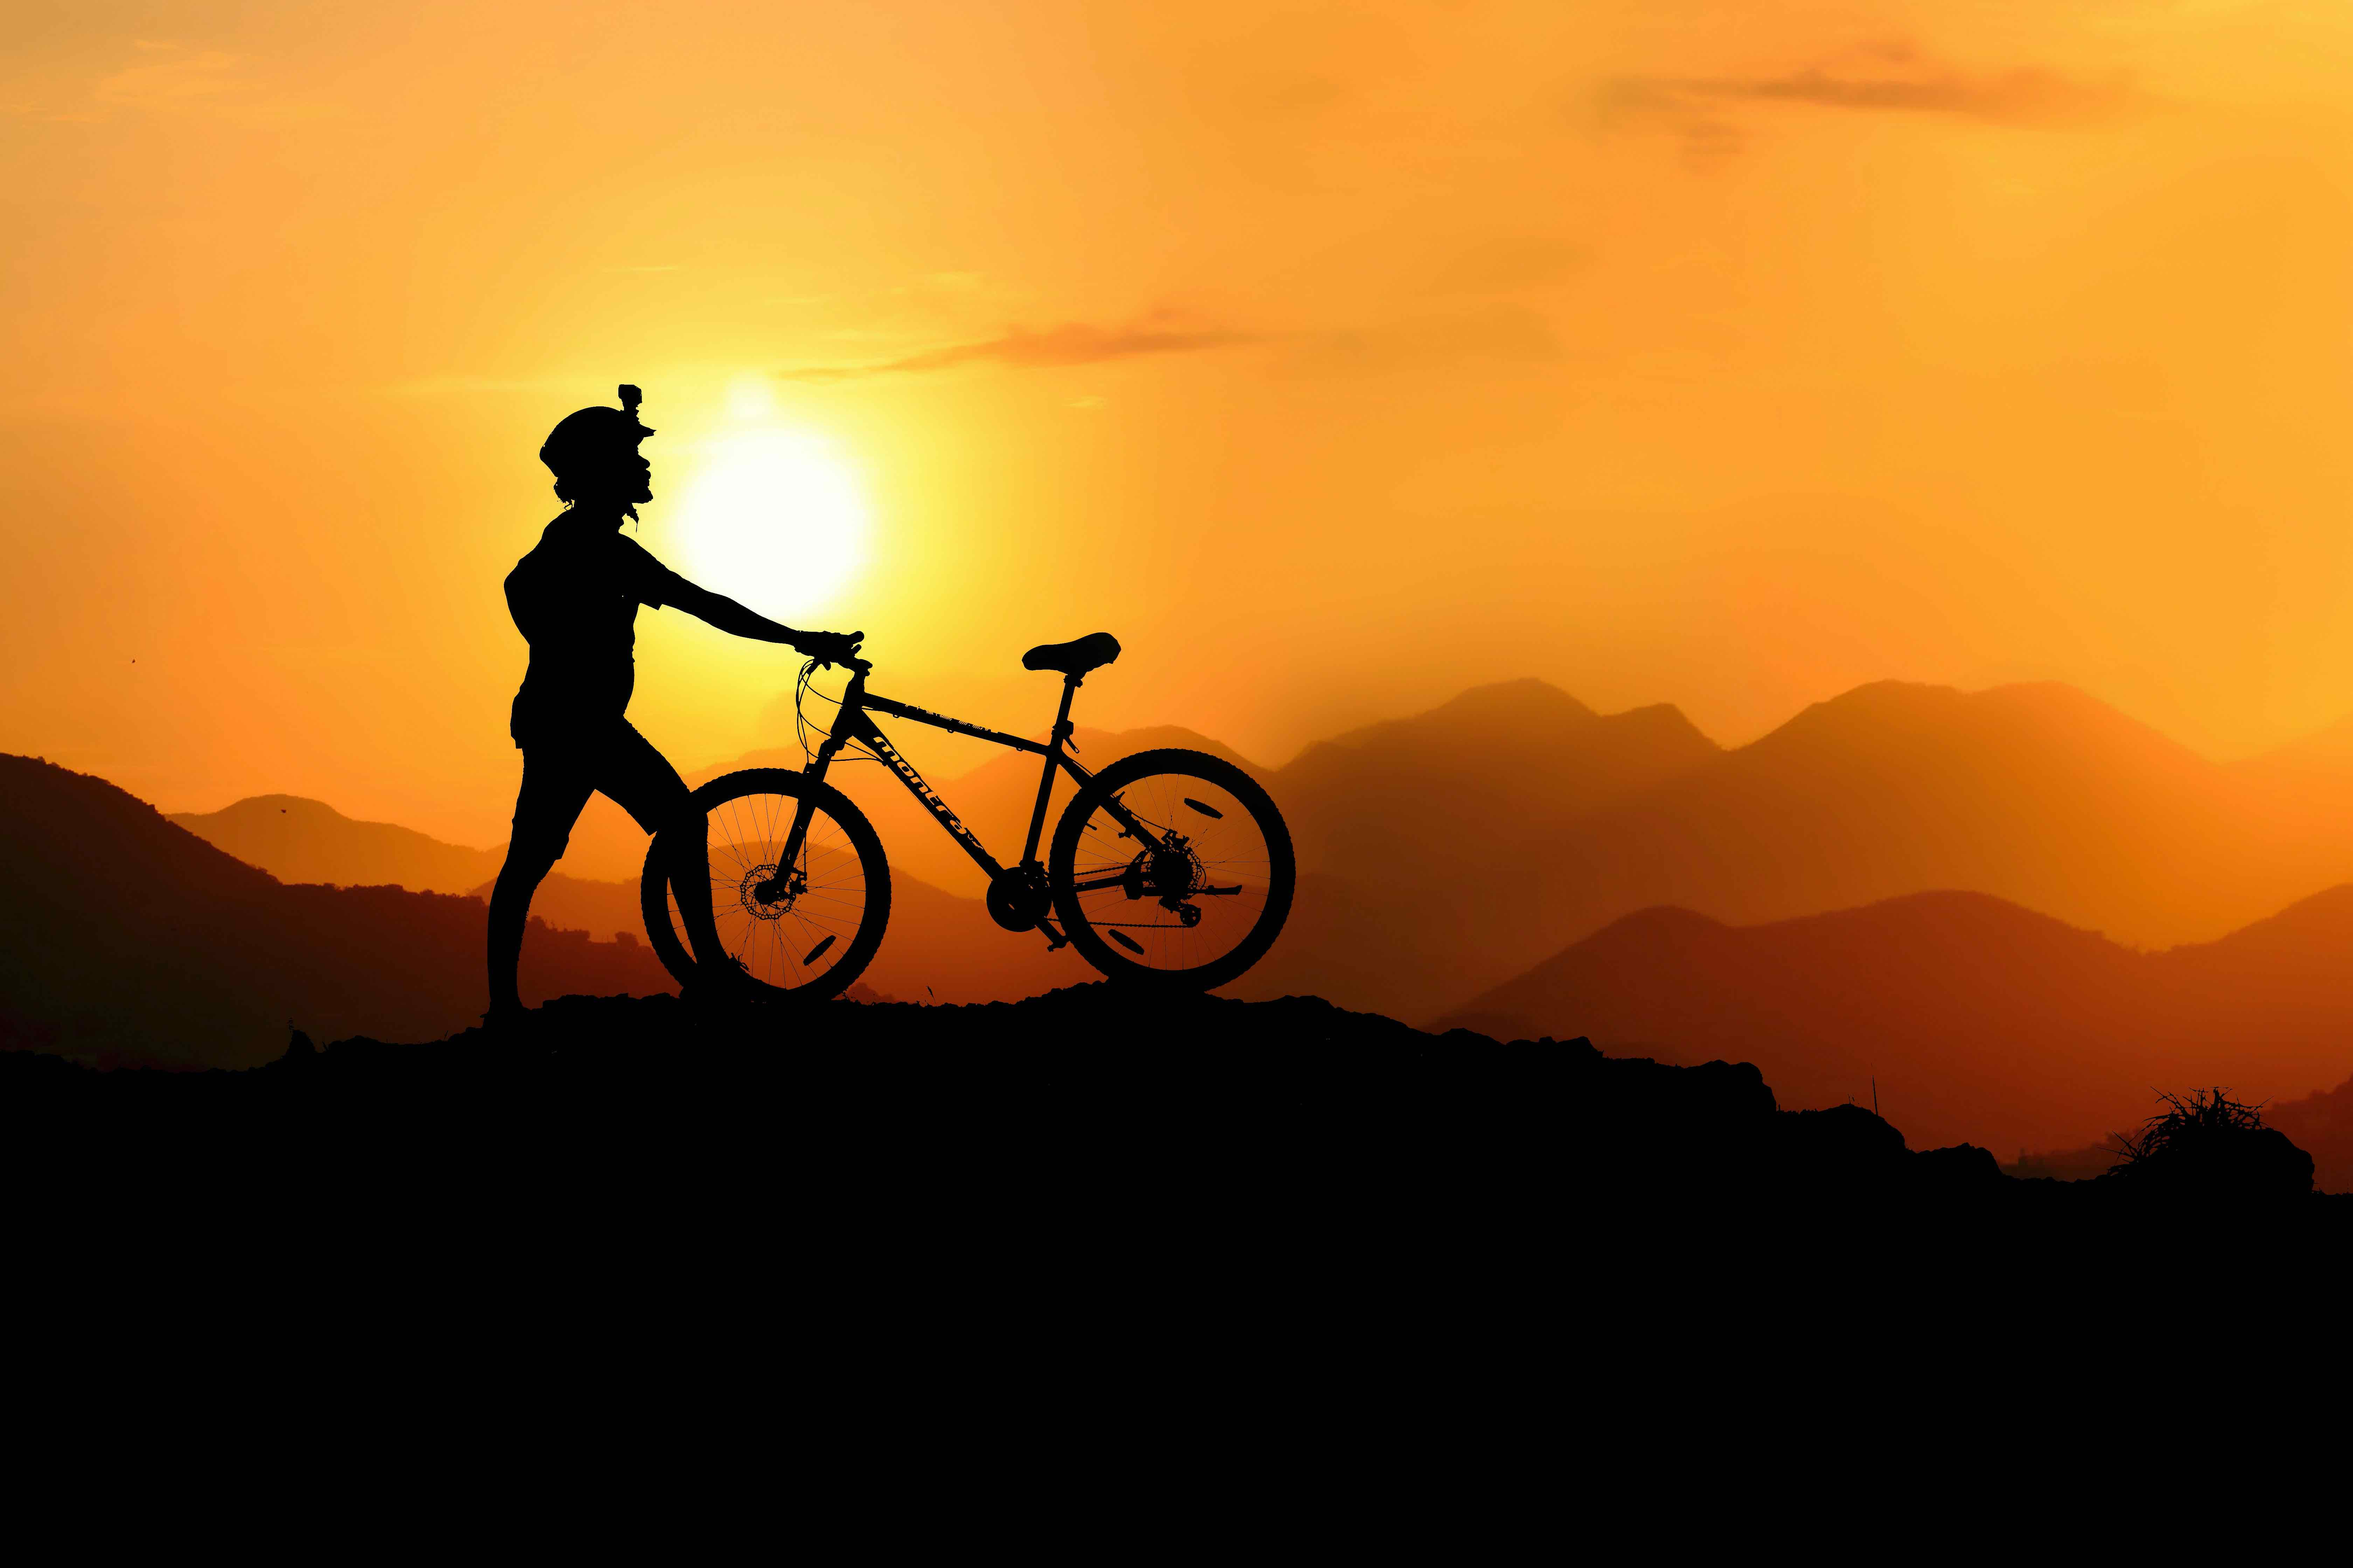
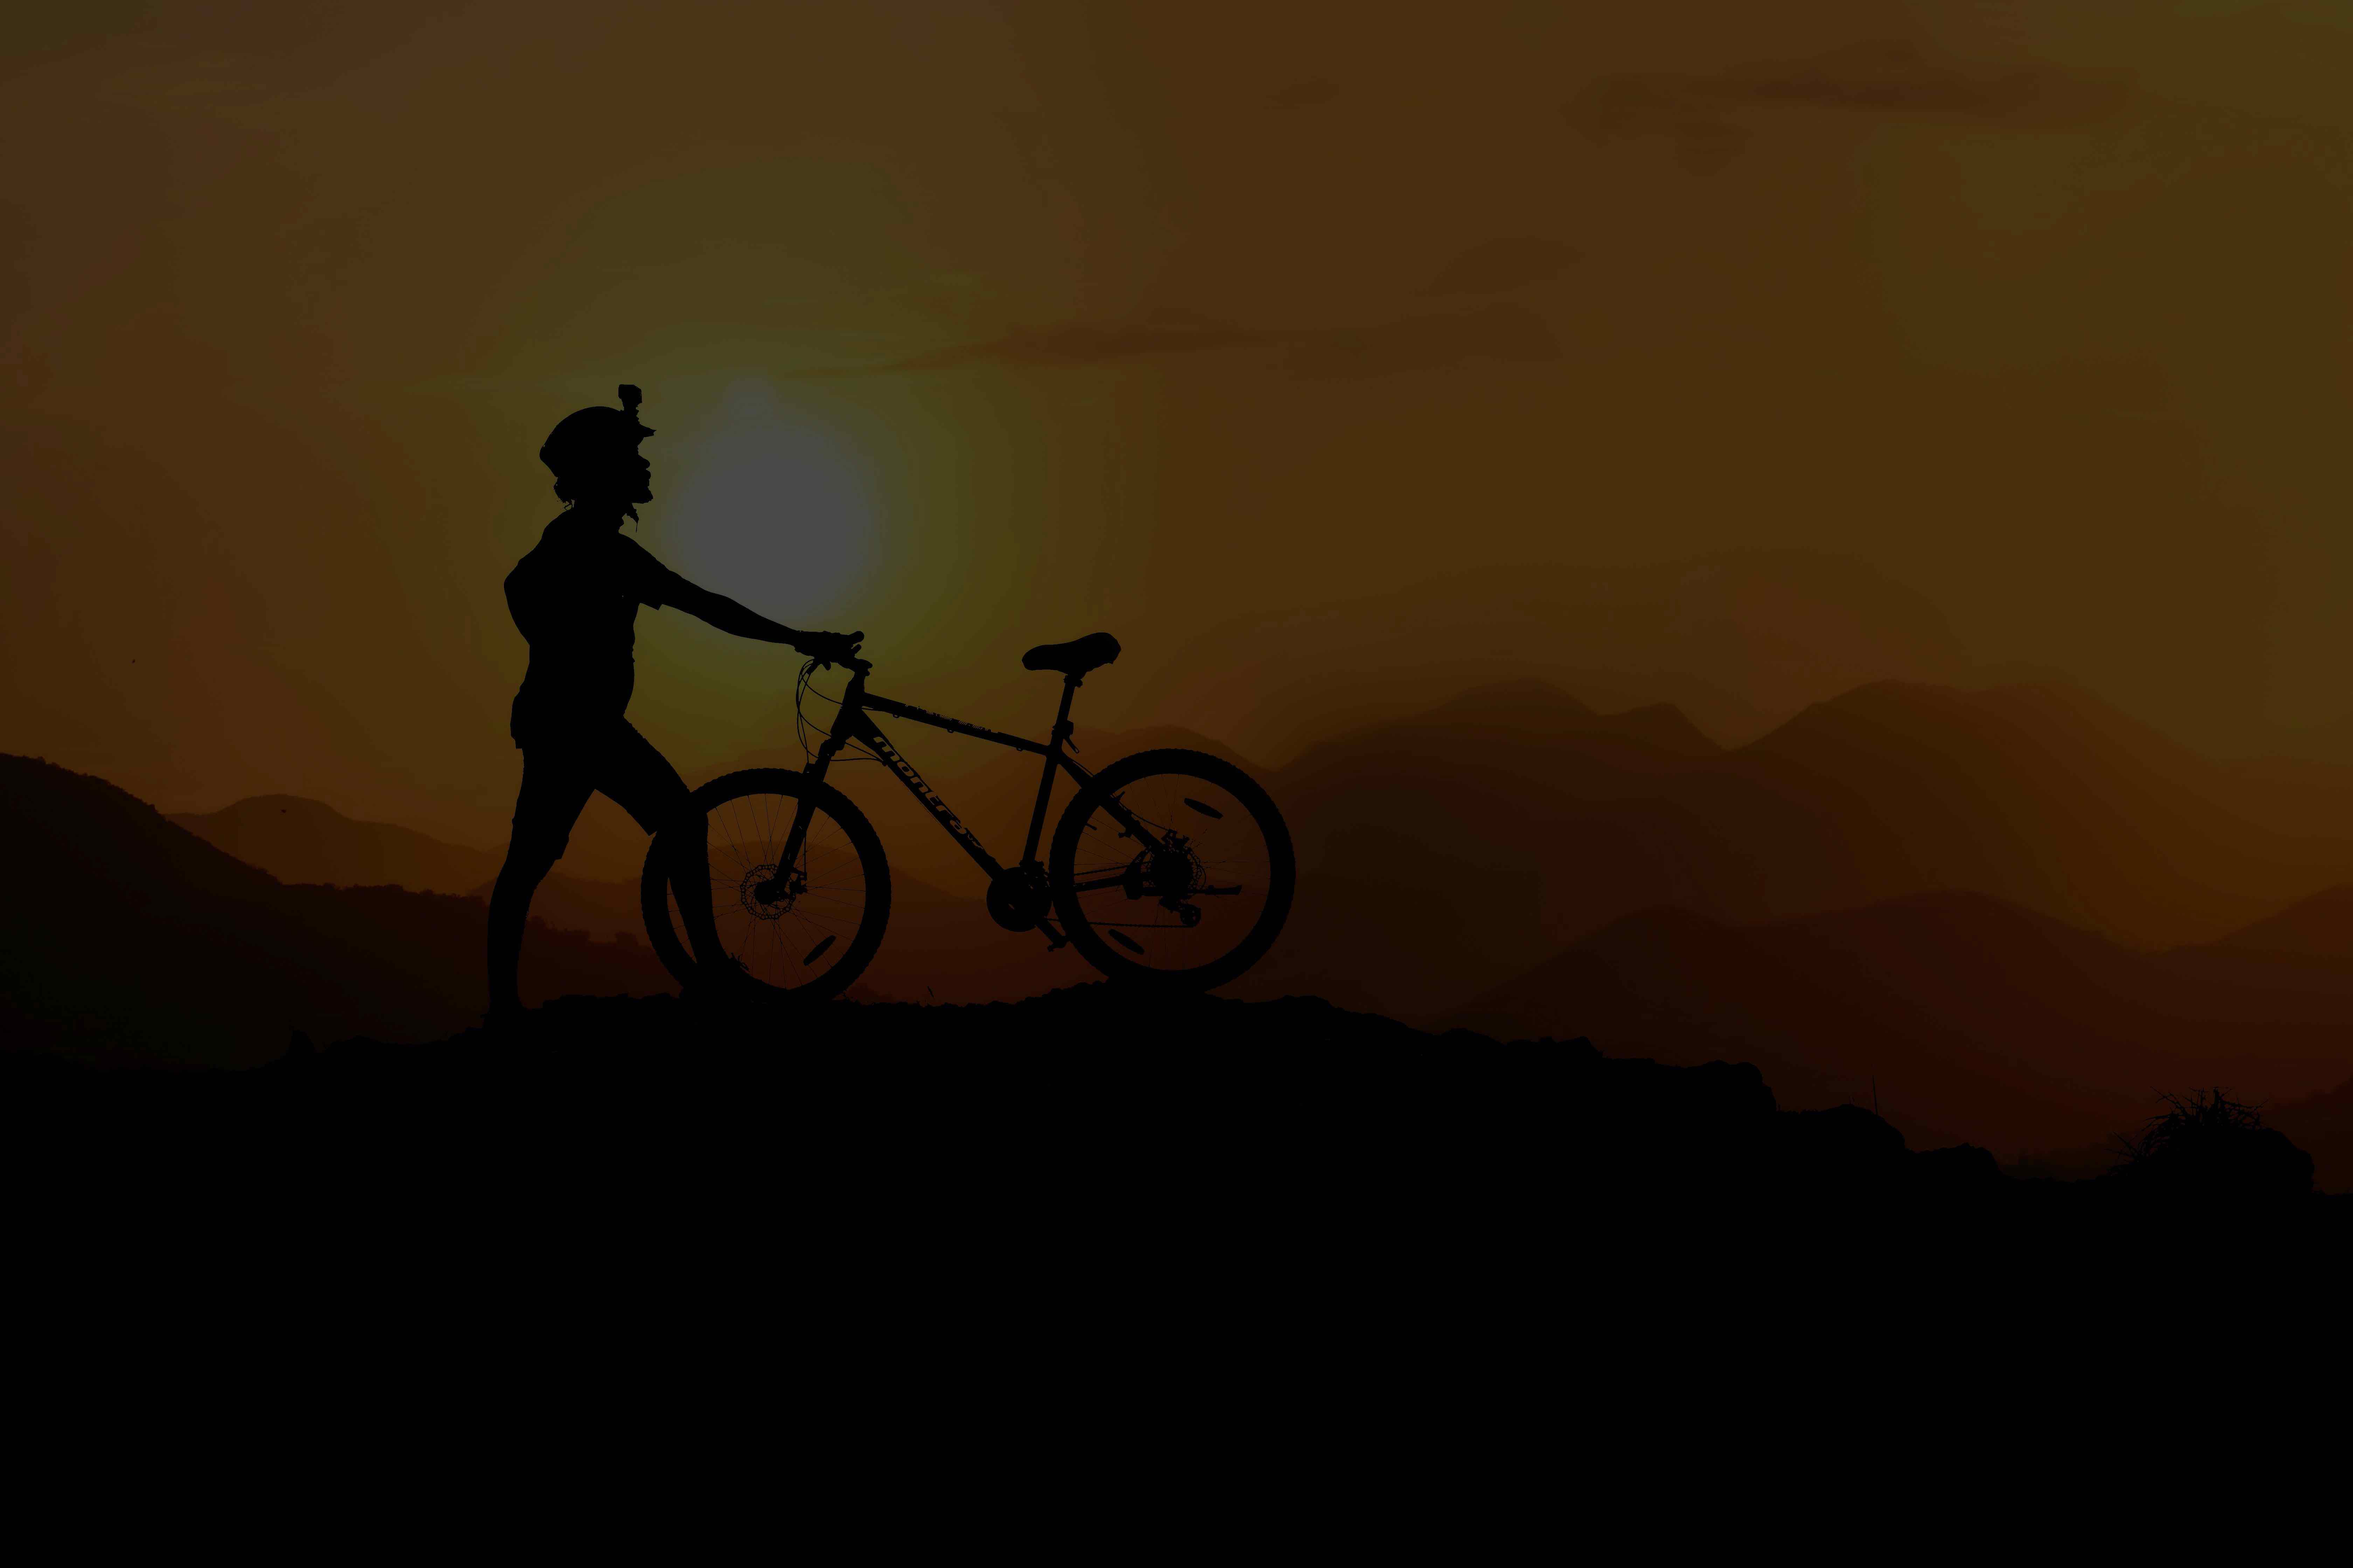
readme

diff --git a/js/index.js b/js/index.js
@@ -1,23 +1,28 @@
-// suble motion for heading text content
-gsap.from(".subtle", {opacity: 0, duration: 5, y: -150, stagger: 0.5})
-gsap.from(".vertical", {opacity: 0, duration: 5, y: 300, x: -150})
-
-
-let preorder = document.querySelector(".animate-btn")
-
-
-
-preorder.addEventListener('click', event => {
-  gsap.to(".offscreen",{
-    duration: 5,
-    y: 10,
-    opacity: 1,
-    scale: 0.8
-  }); 
-
+// subtle motion for heading text content (Starts when page loads)
+window.addEventListener("load", () => {
+  //heading and button move down as page loads
+  gsap.from(".subtle", { opacity: 0, duration: 5, y: -150, stagger: 0.5 });
+  gsap.from(".vertical", { opacity: 0, duration: 5, y: 300, x: -150 });
+  //explore text moves up as page loads
 });
 
-// gsap.to(".react",{duration: 2, x: 300, backgroundColor: "black", x: -300} )
-gsap.to(".react", { delay: 2, repeat: 2, repeatDelay: 3, duration: 3, ease: "elastic.out(15, 1)", x: 100, });
+//PreOrder Button Gsap Event (Thank you message)
+let preorder = document.querySelector(".animate-btn");
+preorder.addEventListener("click", () => {
+  gsap.to(".offscreen", {
+    duration: 2,
+    opacity: 1,
+    scale: 0.8,
+  });
+});
+//PreOrder button Gsap
 
-gsap.from(".react", 8, {rotation:1080*10, scale:5, ease:Linear.easeNone})
+//React symbol movement. (to explore the way the different items act in gsap)
+let hover = document.querySelector(".spin");
+hover.addEventListener("mouseover", () => {
+  gsap.from(".react", 2, {
+    rotation: 1080 * 10,
+    scale: 15,
+    ease: Linear.easeNone,
+  });
+});

diff --git a/less/jumbotron.less b/less/jumbotron.less
@@ -1,5 +1,5 @@
 .jumbotron {
-  background-image: url("../images/heroImage.jpg");
+  background-image: url("../images/secondary-hero.jpg");
   background-repeat: no-repeat;
   background-size: cover;
   height: 90vh;
@@ -41,31 +41,33 @@
       margin-left: 10rem;
       border-right: 1px solid orange;
       padding-top: 15rem;
-      text-transform: uppercase;  
+      text-transform: uppercase;
       transform: rotate(180deg);
     }
   }
 }
-.offscreen{
+.offscreen {
+  display: inline;
   opacity: 0;
   font-size: 2rem;
-  color: gray;
+  color: rgb(255, 255, 255);
+  background-color: rgb(0, 0, 0);
 }
 // ******************** secondary-jumbotron
-.secondary-jumbo{
-  background-image: url('../images/secondary-hero.jpg');
+.secondary-jumbo {
+  background-image: url("../images/secondary-hero.jpg");
   background-size: cover;
 }
 // ******************** Work-Jumbotron
 
-.work-jumbo{
+.work-jumbo {
   margin: auto;
-  background-image: url('../images/Work.png');
+  background-image: url("../images/Work.png");
   background-size: cover;
   background-repeat: no-repeat;
   // min-width: 30rem;
 }
-.carousel{
+.carousel {
   margin: auto;
   max-width: 80%;
   margin: 5rem auto 5rem auto;

diff --git a/index.html b/index.html
@@ -16,7 +16,7 @@
     <div class="container-fluid">
 
     <nav class="header navbar navbar-expand-lg navbar-light ">
-      <a class="navbar-brand" href="/index.html"> <img class="react" src="./images/logo.svg" alt="test"/>Bike Shop</a>
+      <a class="navbar-brand " href="#"> <img class="react spin" src="./images/logo.svg" alt="test"/>Bike Shop</a>
       <button
         class="navbar-toggler"
         type="button"
@@ -36,7 +36,7 @@
             >
           </li>
           <li class="nav-item">
-            <a class="nav-link" href="/secondary.html">Secondary Page</a>
+            <a class="nav-link" href="secondary.html">Secondary Page</a>
           </li>
           <li class="nav-item">
             <a class="nav-link" href="contact.html">Contact Page</a>
@@ -69,8 +69,9 @@
         <h1>Mountain</h1>
         <h1>Roads</h1>
         <button type="button" class=" animate-btn btn btn-warning">PREORDER NOW</button>
+    <div>    <p class="offscreen">   Thank You For Your Order! </p> </div>
+
       </div>
-    <div class="offscreen"><h1>Thank You For Your Order!</div>
       <div class="vertical"><h3>Explore</h3></div>
     </div>
     <div class="container-fluid">

diff --git a/css/index.css b/css/index.css
@@ -77,7 +77,7 @@ footer {
   background-color: #e3e2e0;
 }
 .jumbotron {
-  background-image: url("../images/heroImage.jpg");
+  background-image: url("../images/secondary-hero.jpg");
   background-repeat: no-repeat;
   background-size: cover;
   height: 90vh;
@@ -123,17 +123,19 @@ footer {
   transform: rotate(180deg);
 }
 .offscreen {
+  display: inline;
   opacity: 0;
   font-size: 2rem;
-  color: gray;
+  color: #ffffff;
+  background-color: #000000;
 }
 .secondary-jumbo {
-  background-image: url('../images/secondary-hero.jpg');
+  background-image: url("../images/secondary-hero.jpg");
   background-size: cover;
 }
 .work-jumbo {
   margin: auto;
-  background-image: url('../images/Work.png');
+  background-image: url("../images/Work.png");
   background-size: cover;
   background-repeat: no-repeat;
 }
@@ -164,7 +166,7 @@ footer {
   font-size: 2rem;
   padding-right: 0;
   margin-right: 0;
-  background-color: rgba(69, 69, 69, 0.667);
+  background-color: rgba(69, 69, 69, 0.822);
 }
 .rightside button {
   justify-self: center;

diff --git a/less/sidebyside.less b/less/sidebyside.less
@@ -20,7 +20,7 @@
   font-size: 2rem;
   padding-right: 0;
   margin-right: 0;
-  background-color: rgba(69, 69, 69, 0.667);
+  background-color: rgba(69, 69, 69, 0.822);
 }
 .rightside button {
   justify-self: center;

diff --git a/README.md b/README.md
@@ -1,67 +1,48 @@
-# BootStrap CSS
 
-You are to demonstrate that you know how to use basic HTML and CSS by building a responsive single page marketing webpage for one of these three companies:
+# Introduction to GSAP
 
-_Road Warriors_ - Bike shop (Chose for this assignment) 
-# Click Here [Link to My Project](https://bills2780bikes.netlify.com/)
-# The URL you used for layout is: [Rivian](https://rivian.com)
+All animations can be found in [index.js](https://github.com/dbills777/Bills_GSAP/blob/master/js/index.jsindex.js)<br><br>
 
-
-
-_Cozy Corner_ - Book store 
+### First Animation (onload)
 
 
 
-_Calm Mind_ - Spa 
+```
+window.addEventListener("load", () => {
+  gsap.from(".subtle", { opacity: 0, duration: 5, y: -150, stagger: 0.5 });
+  gsap.from(".vertical", { opacity: 0, duration: 5, y: 300, x: -150 });
+});
+```
+<sup>1: Heading and Button move down as page loads</sup> <br>
+<sup>2: Explore text moves up as page loads</sup>
 
 
-You will use one of these companies as a guide for your content.  For design, you will need to find a website that you admire as a guide for layout.  You will then combine the company content and the layout of the website you admire to create a single page marketing site.
+### Second Animation (click)
+
+```
+preorder.addEventListener("click", () => {
+  gsap.to(".offscreen", {
+    duration: 2,
+    opacity: 1,
+    scale: 0.8,
+  });
+});
+})
+```
+<sup>Displays a thank you message that appears onclick</sup>
+<br><br>
+
+### Third Animation (mouseover)
+
+```
+hover.addEventListener("mouseover", () => {
+  gsap.from(".react", 2, {
+    rotation: 1080 * 10,
+    scale: 15,
+    ease: Linear.easeNone,
+  });
+});
+```
+<sup>Logo quickly scales large then spins as it returns to size</sup>
 
 
-## BootStrap CSS Requirements
-
-These project requirements directly impact the grading rubric, so read them carefully:
-
-- [x] Proper Use of Bootstrap's CSS Grid System
-
-- [x] CSS Component I (container, container-fluid, jubotron)
-
-- [x] CSS Component II (container, container-fluid, jumbotron)
-
-- [x] JS Component I (Navigation with dropdown and resizing)
-
-- [x] JS Component II (carousel)
-
-- [x] Layout matches the website picked
-
-- [x] Home Page with navigation
-
-- [x] Secondary page with navigation and carousel for bike display
-
-- [x] contact page with a form element designed as a careers page.
-
- 
-
-## Project Resources
-
-Images and content can be frustrating to find and use in any project.  To alleviate your time on design, consider using these resources so you can focus on the code:
-
-- For copyright free images, you can use [pexels.com](https://www.pexels.com/)
-
-- For filler text use a [lorem ipsum generator](https://www.lipsum.com/)
-
-## Project Setup
-
-We will be using git throughout the semester.  Each project much be forked and cloned to get started.
-
-- [x] Fork and clone this repo: https://github.com/BigKnell/DGM-2780-Bootstrap-Starter
-
-- [x] You have been provided a [bare bones website starter folder (website folder)](website). Use index.html as a starting point for your HTML and index.css for your CSS
-
-- [x] Build your website following the project requirements as your guide
-
-- [x] Provide the URL of the website you mimicked at the bottom of the readme file
-
-- [x] When you have completed the website, submit your repository URL
-
-The URL you used for layout is: [Rivian](https://rivian.com)
